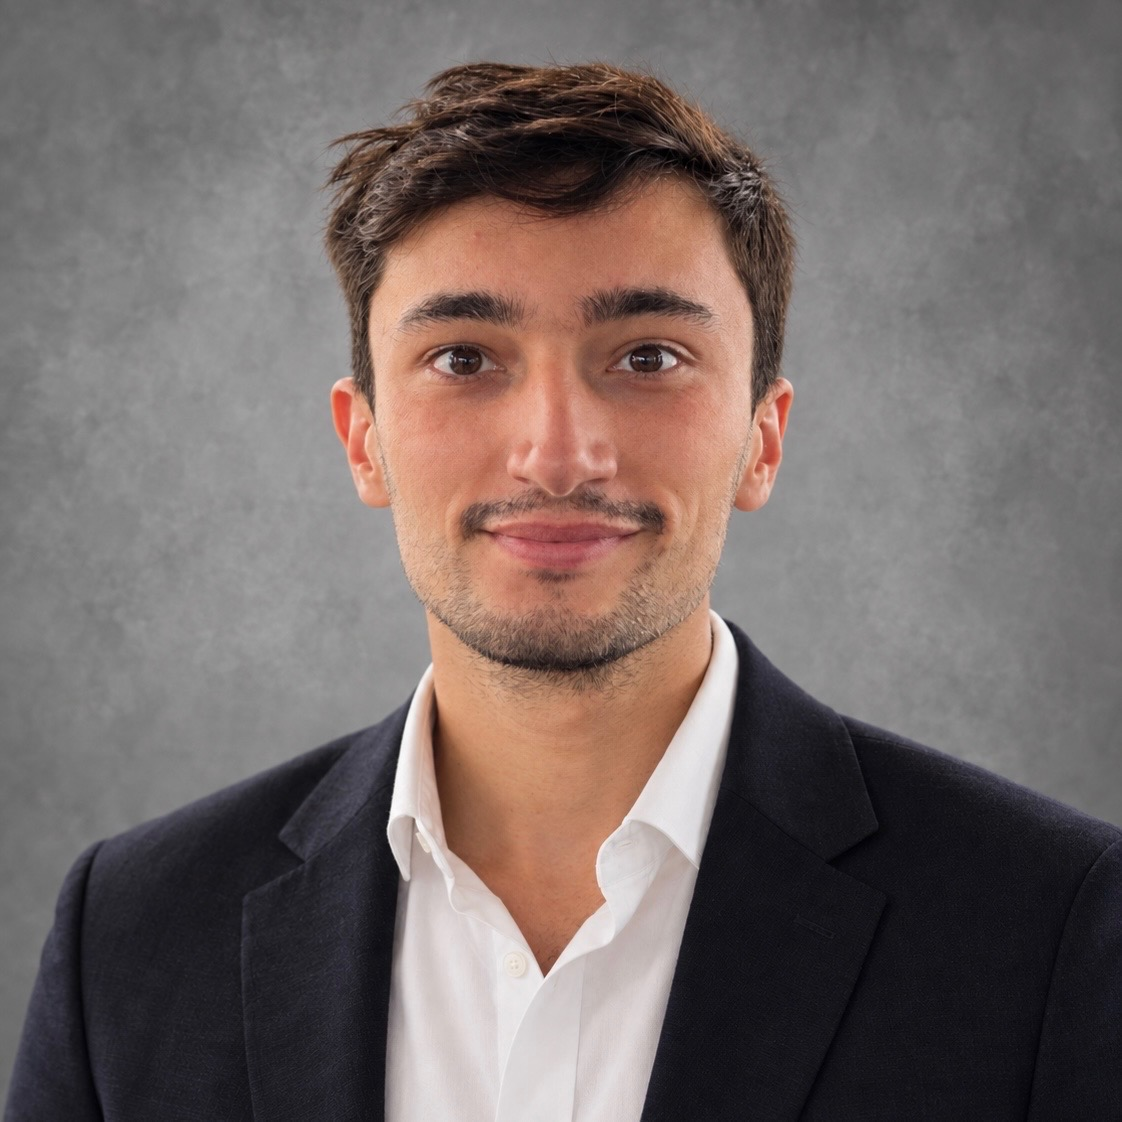
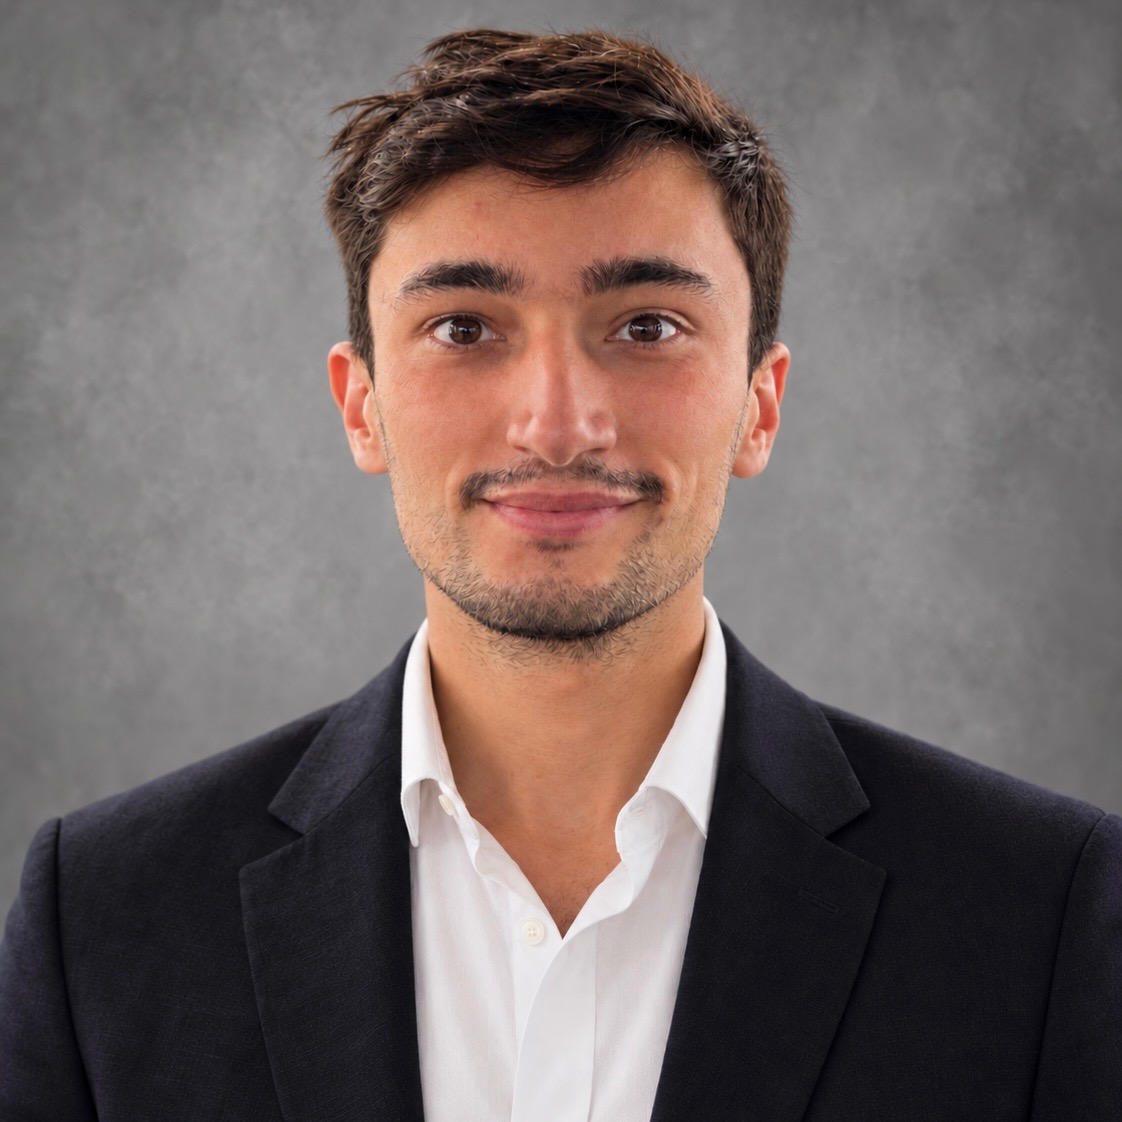
about: replace headshot with new photograph (source 1122x1122, square 1:1)
Swap the About-page portrait for the newest photograph Christopher sent.
Source is 1122x1122, the same true 1:1 ratio as the prior asset, so the
portrait block and the img width/height (760x760, 2x the 380px display
block) are unchanged and the image renders at its natural ratio with no
stretch or letterboxing. Rebuilt JPEG (760x760) + WebP (760x760) from the
new source. Bumped the image URL to ?v=20261014a so caches serve the new
file. Same filenames, so no orphaned asset remains.

diff --git a/about.html b/about.html
@@ -89,8 +89,8 @@
       <div>
         <figure class="portrait">
           <picture>
-            <source srcset="assets/img/christopher-larsen-headshot.webp?v=20261013d" type="image/webp">
-            <img src="assets/img/christopher-larsen-headshot.jpg?v=20261013d"
+            <source srcset="assets/img/christopher-larsen-headshot.webp?v=20261014a" type="image/webp">
+            <img src="assets/img/christopher-larsen-headshot.jpg?v=20261014a"
                  alt="Christopher D. Larsen, CPA, founder of Christopher Larsen CPA, Los Angeles"
                  width="760" height="760" decoding="async">
           </picture>
